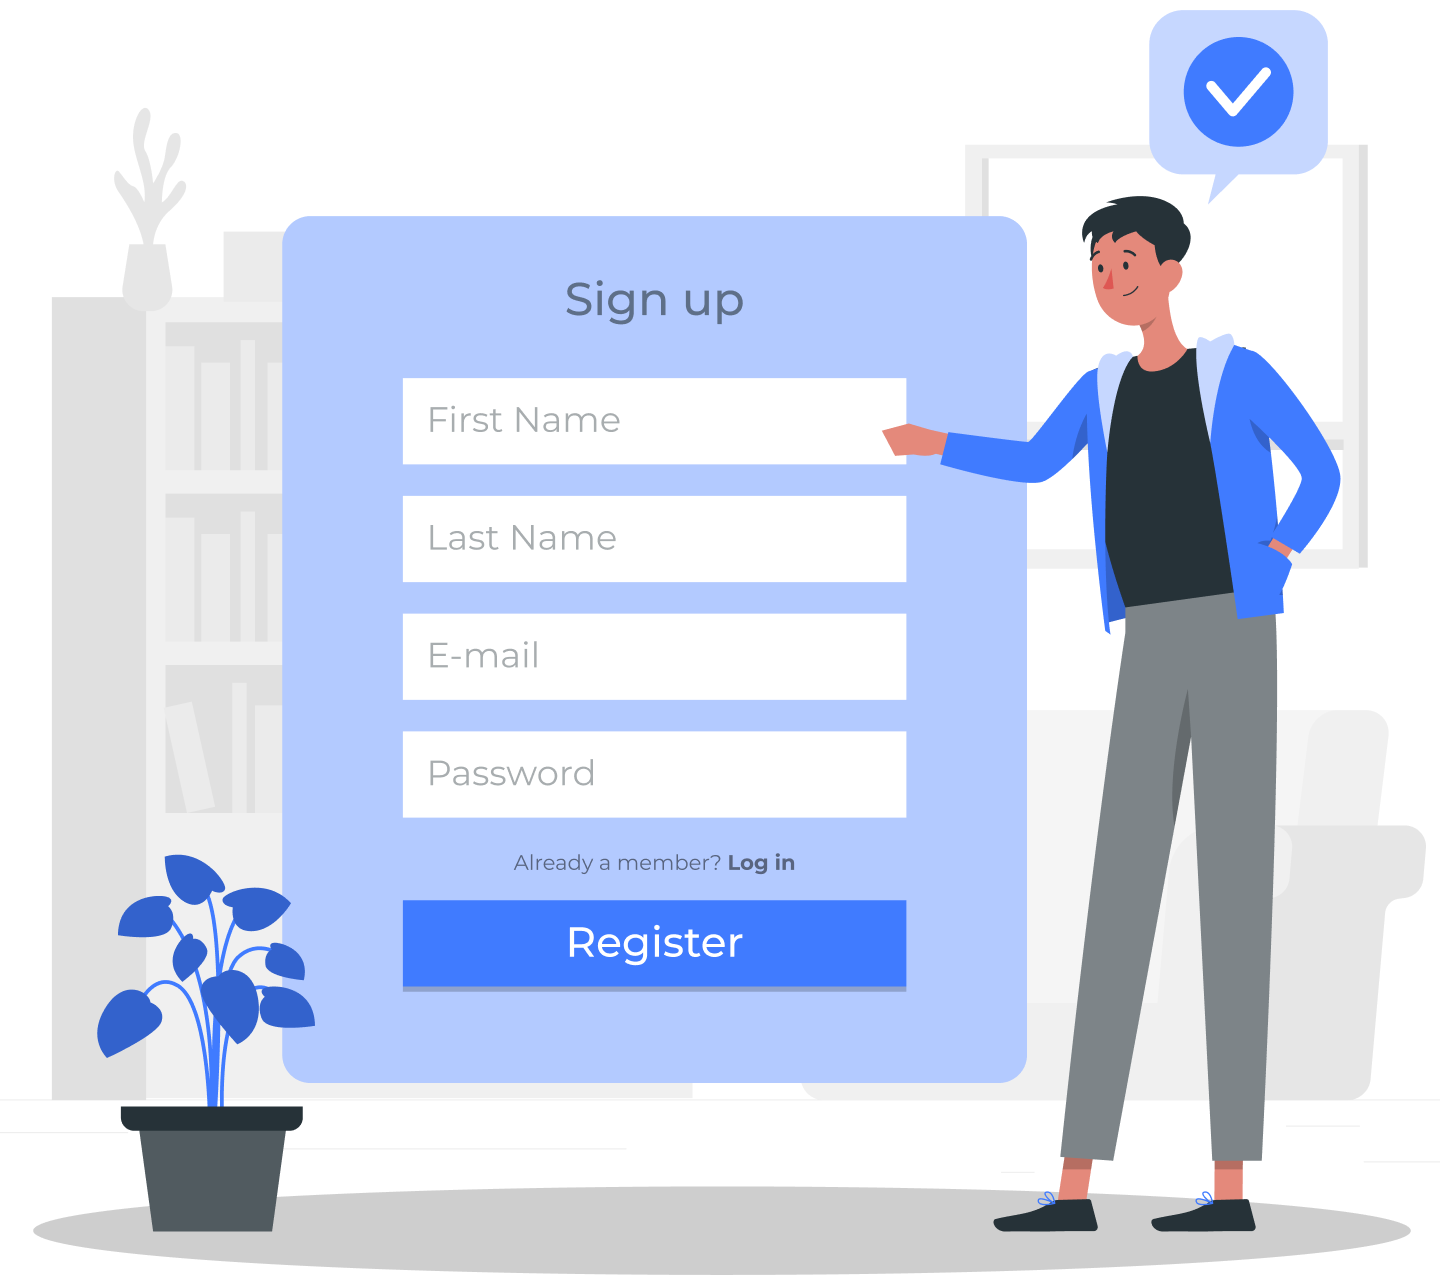
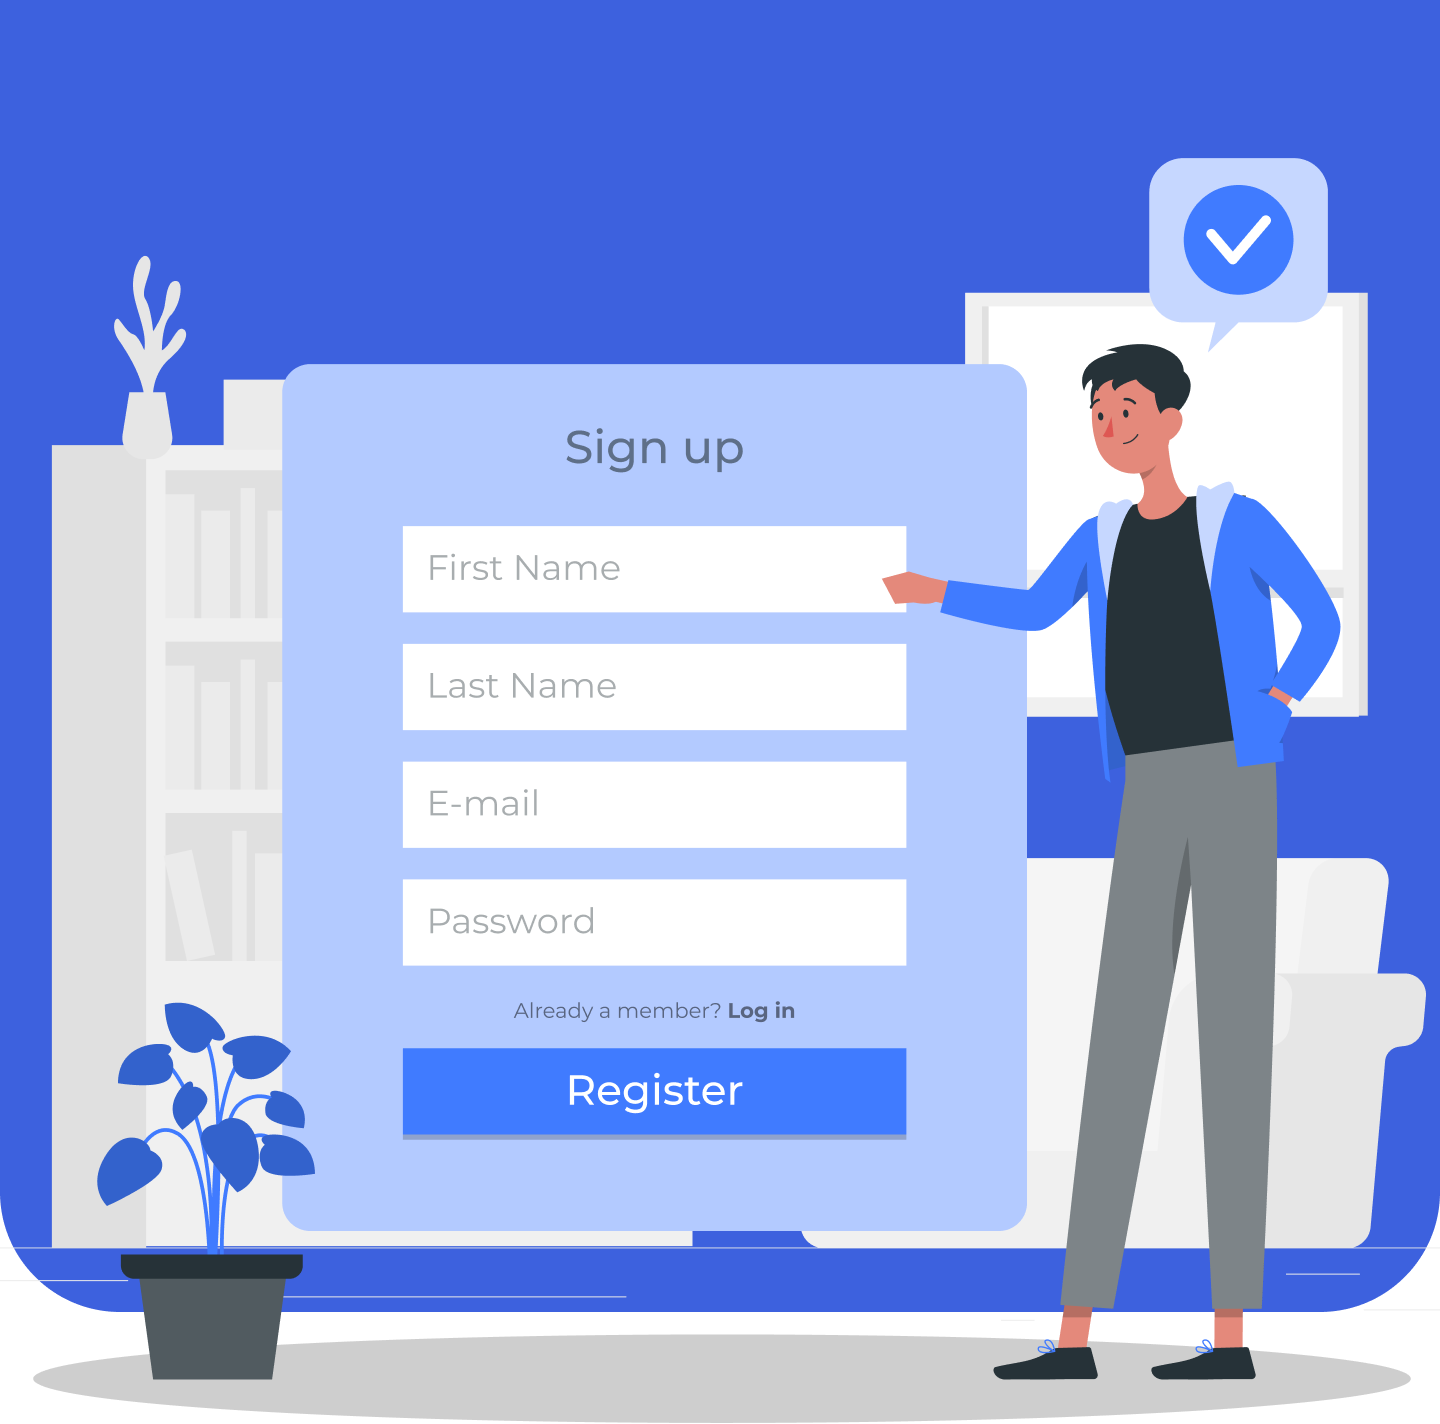
- finished signup screen as ui only

diff --git a/lib/view/signup_screen.dart b/lib/view/signup_screen.dart
@@ -1,0 +1,74 @@
+import 'package:flutter/material.dart';
+import 'package:get/get.dart';
+
+import '../constants/colors.dart';
+import '../constants/strings.dart';
+import 'widgets/auth_input_field.dart';
+
+class SignupScreen extends StatelessWidget {
+  const SignupScreen({Key? key}) : super(key: key);
+
+  @override
+  Widget build(BuildContext context) {
+    return Scaffold(
+      body: SingleChildScrollView(
+        child: Column(
+          children: [
+            Image.asset("assets/signup image.png"),
+            const SizedBox(height: 15),
+            Container(
+              padding: const EdgeInsets.all(10),
+              child: const AuthInputField(label: "First Name"),
+            ),
+            Container(
+              padding: const EdgeInsets.all(10),
+              child: const AuthInputField(label: "Last Name"),
+            ),
+            Container(
+              padding: const EdgeInsets.all(10),
+              child: const AuthInputField(label: "Email"),
+            ),
+            Container(
+              padding: const EdgeInsets.all(10),
+              child: const AuthInputField(label: "Password"),
+            ),
+            Container(
+              padding: const EdgeInsets.all(10),
+              child: const AuthInputField(label: "Re-type Password"),
+            ),
+            TextButton(
+              onPressed: () {},
+              child: Align(
+                alignment: Alignment.center,
+                child: Container(
+                  padding: const EdgeInsets.symmetric(vertical: 15,horizontal: 40),
+                  decoration: BoxDecoration(
+                      color: blueColor,
+                      borderRadius: BorderRadius.circular(28)),
+                  child: const Text(
+                    "Signup",
+                    style: TextStyle(
+                        fontSize: 30,
+                        fontWeight: FontWeight.bold,
+                        color: whiteColor),
+                  ),
+                ),
+              ),
+            ),
+            InkWell(
+              onTap: (){
+                Get.offNamed(loginScreen);
+              },
+              child: const Text("Already a User? Sign in",style: TextStyle(
+                  fontSize: 15,
+                  fontWeight: FontWeight.bold,
+                  color: Color.fromRGBO(55, 55, 55, 1)
+              ),),
+            ),
+            const SizedBox(height: 20),
+          ],
+        ),
+      ),
+    );
+  }
+}

diff --git a/lib/view/login_screen.dart b/lib/view/login_screen.dart
@@ -1,5 +1,7 @@
 import 'package:flutter/material.dart';
+import 'package:get/get.dart';
 import 'package:lost_found_app/constants/colors.dart';
+import 'package:lost_found_app/constants/strings.dart';
 
 import 'widgets/auth_input_field.dart';
 
@@ -77,13 +79,18 @@ class LoginScreen extends StatelessWidget {
                         ),
                       ),
                     ),
-                    const Align(
+                     Align(
                       alignment: Alignment.center,
-                      child: Text("Not a User? Signup",style: TextStyle(
-                        fontSize: 15,
-                        fontWeight: FontWeight.bold,
-                        color: Color.fromRGBO(55, 55, 55, 1)
-                      ),),
+                      child: InkWell(
+                        onTap: (){
+                          Get.offNamed(signupScreen);
+                        },
+                        child: const Text("Not a User? Signup",style: TextStyle(
+                          fontSize: 15,
+                          fontWeight: FontWeight.bold,
+                          color: Color.fromRGBO(55, 55, 55, 1)
+                        ),),
+                      ),
                     ),
                   ],
                 ),

diff --git a/lib/app_router.dart b/lib/app_router.dart
@@ -1,5 +1,6 @@
 import 'package:flutter/material.dart';
 import 'package:lost_found_app/view/login_screen.dart';
+import 'package:lost_found_app/view/signup_screen.dart';
 
 import 'constants/strings.dart';
 
@@ -9,6 +10,10 @@ class AppRouter {
       case loginScreen:
         return MaterialPageRoute(
           builder: (_) => const LoginScreen(),
+        );
+        case signupScreen:
+        return MaterialPageRoute(
+          builder: (_) => const SignupScreen(),
         );
     }
   }

diff --git a/lib/main.dart b/lib/main.dart
@@ -1,4 +1,5 @@
 import 'package:flutter/material.dart';
+import 'package:get/get.dart';
 import 'package:lost_found_app/app_router.dart';
 
 void main() {
@@ -14,7 +15,7 @@ class MyApp extends StatelessWidget {
 
   @override
   Widget build(BuildContext context) {
-    return MaterialApp(
+    return GetMaterialApp(
       debugShowCheckedModeBanner: false,
       title: 'Flutter Demo',
       onGenerateRoute: appRouter.generateRoute,

diff --git a/lib/constants/strings.dart b/lib/constants/strings.dart
@@ -1,1 +1,2 @@
 const loginScreen = '/';
+const String signupScreen = 'signupScreen';
